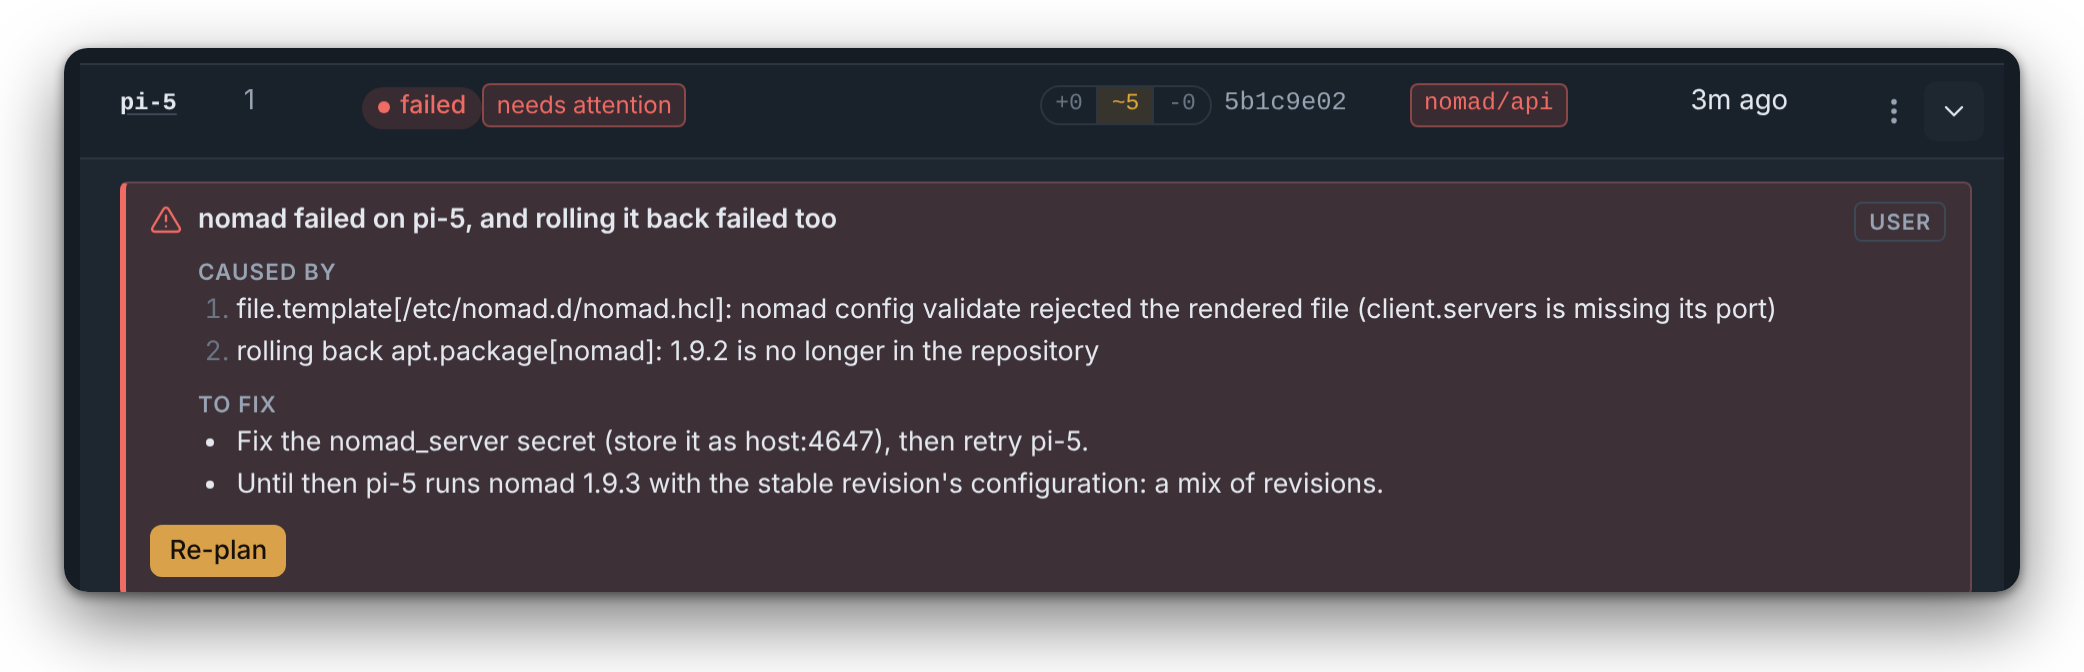
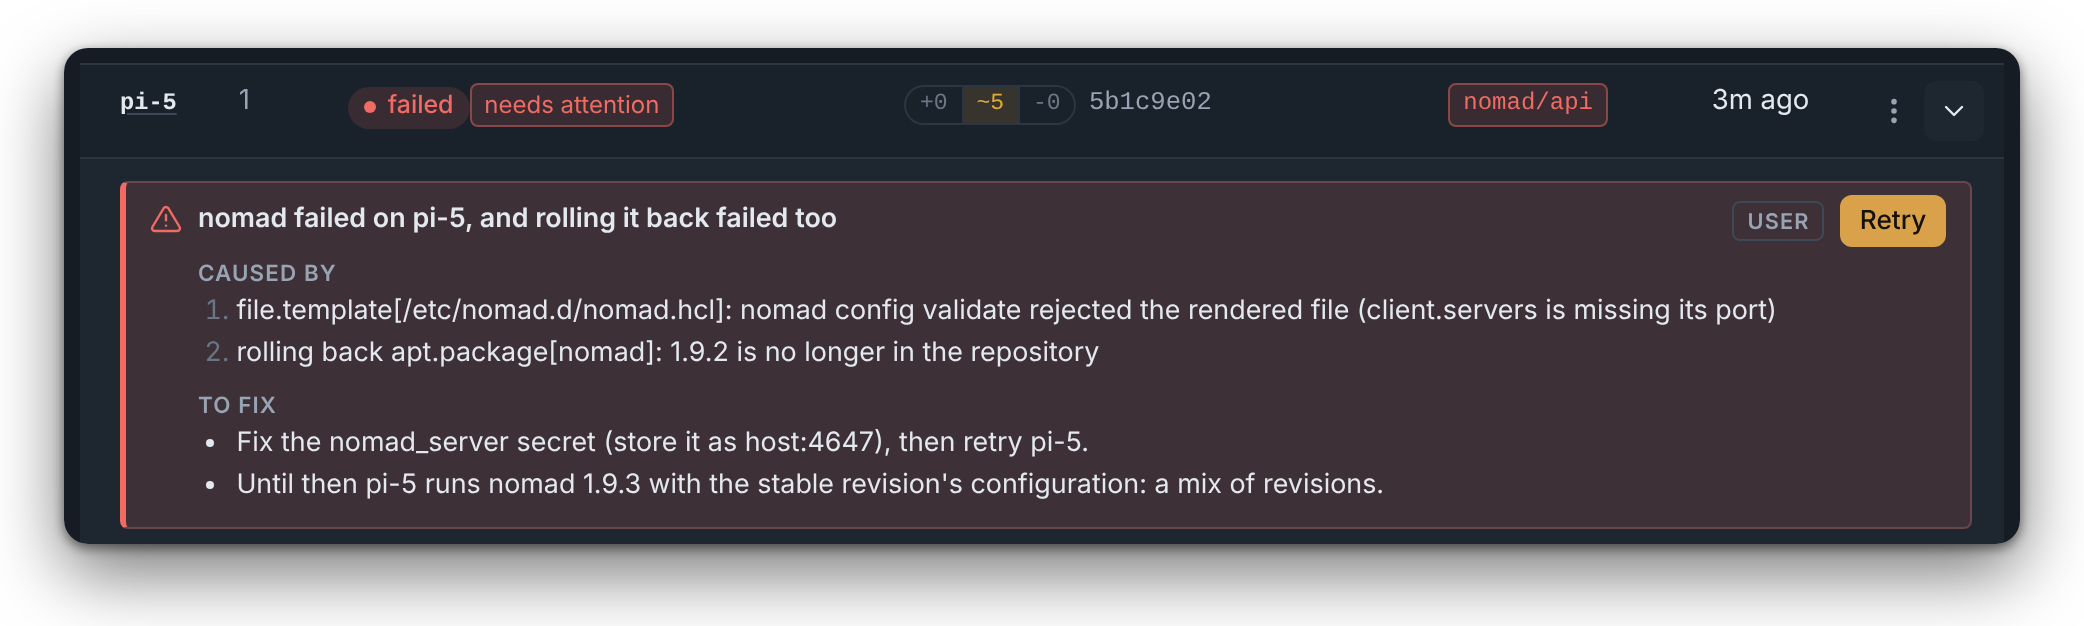
feat(ui): call re-planning a host that failed past its plan Retry, top right of its error
A host whose apply or bake failed is planned and applied again, so its
button (on the error, in its menu and in the dialog) says Retry; a host
whose planning failed, or that is still waiting to apply, keeps Re-plan.
The button sits top right of the error, as on other banners.

The hosts table no longer outgrows a 1280px page: a long activity path
wraps, the drift badge wraps under the plan, and a host's details never
set the table's width.

Claude-Session: https://claude.ai/code/session_01WkowUsjidXyef5JVRWfoZk

diff --git a/ui/styles/_runs.scss b/ui/styles/_runs.scss
@@ -92,6 +92,8 @@
   }
 
   &__raw {
+    flex: 1;
+    min-width: 0;
     margin: 0;
     color: var(--fg);
     font-size: 0.8rem;
@@ -109,12 +111,12 @@
     font-size: 0.76rem;
   }
 
-  // What can be done about it, at its foot.
+  // What can be done about it, top right beside the headline.
   &__actions {
     display: flex;
-    flex-wrap: wrap;
+    flex-shrink: 0;
     gap: 0.5rem;
-    margin-top: 0.6rem;
+    margin: -0.15rem 0;
   }
 }
 

diff --git a/ui/styles/_pages.scss b/ui/styles/_pages.scss
@@ -411,7 +411,12 @@
   }
 }
 
+// A host's details under its row. Its content never sets the table's width
+// (a long error or run step would scroll the whole table sideways): it
+// takes the row's width and wraps, or scrolls on its own.
 .host-row {
+  contain: inline-size;
+
   &__ticker {
     margin-top: 0.25rem;
   }

diff --git a/ui/styles/_tables.scss b/ui/styles/_tables.scss
@@ -70,6 +70,8 @@
   display: block;
   color: var(--fg-2);
   font-size: 0.78rem;
+  // A long path breaks rather than widening its column.
+  overflow-wrap: anywhere;
 }
 
 .cell-labels {

diff --git a/ui/src/pages/rollout.rs b/ui/src/pages/rollout.rs
@@ -26,7 +26,7 @@ use crate::components::{
     Refresh, RouteLink, RunReportView, SplitButton, TraceLink, use_toast,
 };
 use crate::hooks::{RunSource, use_debounced, use_fetch, use_live_value, use_now, use_run_report};
-use crate::logic::controls::{Decision, Standing, decisions};
+use crate::logic::controls::{Decision, Standing, decisions, replan_label};
 use crate::logic::fleet_plan::{Phases, fleet_tally};
 use crate::logic::format::{count, relative, rollout_label, short, since, timestamp};
 use crate::logic::live::{apply_fleet, apply_rollout};
@@ -863,9 +863,16 @@ fn dialog(
             }
         }
         Ask::Host(action, host) => {
+            let retry_label = d
+                .phases
+                .iter()
+                .flat_map(|p| &p.hosts)
+                .find(|h| &h.host == host)
+                .map(|h| replan_label(h.state, h.plan_digest.is_some()))
+                .unwrap_or("Re-plan");
             let (label, danger, body) = match *action {
                 "retry" => (
-                    "Re-plan",
+                    retry_label,
                     false,
                     "Plans the host again as it stands. A host that failed, was held or skipped is then re-applied with the same checks; one still waiting to apply keeps its place and its plan asks for approval again if it changed.",
                 ),
@@ -1157,11 +1164,13 @@ fn host_table(props: &HostTableProps) -> Html {
                                         <span class="cell-sub mono" data-testid="host-activity">{ now.clone() }</span>
                                     }
                                 </td>
-                                <td class="nowrap">
-                                    { host_tally(h, &props.plans).map(|tally| html! { <Changes {tally} /> }).unwrap_or_default() }
-                                    { h.plan_digest.as_deref().map(|d| html! {
-                                        <span class="mono muted small plan-digest" title={format!("plan {d}")}>{ short(d) }</span>
-                                    }).unwrap_or_else(|| html! { <span class="muted">{ "—" }</span> }) }
+                                <td>
+                                    <span class="nowrap">
+                                        { host_tally(h, &props.plans).map(|tally| html! { <Changes {tally} /> }).unwrap_or_default() }
+                                        { h.plan_digest.as_deref().map(|d| html! {
+                                            <span class="mono muted small plan-digest" title={format!("plan {d}")}>{ short(d) }</span>
+                                        }).unwrap_or_else(|| html! { <span class="muted">{ "—" }</span> }) }
+                                    </span>
                                     if h.preview {
                                         <span class="badge" data-testid="plan-preview"
                                             title="Planned at the rollout's start; planned again when its stage opens">{ "preview" }</span>
@@ -1216,7 +1225,8 @@ fn host_menu(h: &RolloutHost, on_ask: &Callback<Ask>) -> Vec<MenuItem> {
     let host = || h.host.clone();
     let mut items = Vec::new();
     if can_replan(h.state) {
-        items.push(item("Re-plan…", false, Ask::Host("retry", host())));
+        let label = format!("{}…", replan_label(h.state, h.plan_digest.is_some()));
+        items.push(item(&label, false, Ask::Host("retry", host())));
     }
     if h.state == HostRolloutState::Failed && !h.failed_checks.is_empty() {
         items.push(item(
@@ -1280,19 +1290,20 @@ fn host_detail_row(props: &HostDetailRowProps) -> Html {
         }),
         None,
     );
-    // A host with an error is re-planned from it: this one, or (when it
-    // failed) every failed host of the rollout at once.
+    // A host with an error is retried (or re-planned) from it: this one, or
+    // (when it failed) every failed host of the rollout at once.
     let replan = (props.admin && can_replan(h.state)).then(|| {
         let others = failed(&props.detail).len();
+        let label = replan_label(h.state, h.plan_digest.is_some());
         let run = |a: Ask| {
             let on_run = props.on_run.clone();
             Callback::from(move |_: MouseEvent| on_run.emit(a.clone()))
         };
         html! {
             <div class="error-block__actions" data-testid="host-replan">
-                <Button small=true kind={Kind::Primary} onclick={run(Ask::Host("retry", h.host.clone()))}>{ "Re-plan" }</Button>
+                <Button small=true kind={Kind::Primary} onclick={run(Ask::Host("retry", h.host.clone()))}>{ label }</Button>
                 if others > 1 && h.state == HostRolloutState::Failed {
-                    <Button small=true onclick={run(Ask::Action("retry"))}>{ format!("Re-plan all {others} failed") }</Button>
+                    <Button small=true onclick={run(Ask::Action("retry"))}>{ format!("Retry all {others} failed") }</Button>
                 }
             </div>
         }
@@ -1308,9 +1319,8 @@ fn host_detail_row(props: &HostDetailRowProps) -> Html {
     });
     html! {
         <div class="host-row">
-            <ErrorBlock error={h.error_detail.clone()} raw={h.error.clone().map(AttrValue::from)} tone={host_error_tone(h)}>
-                { replan.unwrap_or_default() }
-            </ErrorBlock>
+            <ErrorBlock error={h.error_detail.clone()} raw={h.error.clone().map(AttrValue::from)} tone={host_error_tone(h)}
+                actions={replan.unwrap_or_default()} />
             <div class="host-row__ticker">
                 <h4 class="subhead">{ "Through this rollout" }</h4>
                 { match &lifecycle {

diff --git a/ui/src/logic/controls.rs b/ui/src/logic/controls.rs
@@ -2,7 +2,7 @@
 //! the decision the rollout is waiting on (approve, else pause, retry or
 //! resume) on its face, and the rest behind its menu.
 
-use buckle_api::{RevisionStatus, RevisionSummary, RolloutState, RolloutSummary};
+use buckle_api::{HostRolloutState, RevisionStatus, RevisionSummary, RolloutState, RolloutSummary};
 use chrono::{DateTime, Utc};
 
 use super::tone::{rollout_active, rollout_finished};
@@ -146,6 +146,22 @@ pub fn decisions(state: RolloutState, approve: Option<&str>, hosts: Standing) ->
     all.push(Decision::Abort);
     let primary = all.remove(0);
     Some(Decisions { primary, menu: all })
+}
+
+/// What re-planning a host amounts to, as its button says it: a host that
+/// failed past its plan (its apply or bake failed, it was held, skipped or
+/// missed with a plan in hand) is planned and applied again, a "Retry"; one
+/// whose planning failed, or that is still waiting to apply, only plans again.
+pub fn replan_label(state: HostRolloutState, has_plan: bool) -> &'static str {
+    let waiting = matches!(
+        state,
+        HostRolloutState::PlanPending | HostRolloutState::Planned
+    );
+    if has_plan && !waiting {
+        "Retry"
+    } else {
+        "Re-plan"
+    }
 }
 
 #[cfg(test)]
@@ -311,5 +327,20 @@ mod tests {
         }
         let d = decisions(RolloutState::Baking, None, Standing::default()).unwrap();
         assert!(!d.menu.contains(&SkipBake));
+    }
+
+    #[test]
+    fn a_host_that_failed_past_its_plan_is_retried_else_replanned() {
+        use HostRolloutState as S;
+        for (state, has_plan, want) in [
+            (S::Failed, true, "Retry"),
+            (S::Held, true, "Retry"),
+            (S::Pending, true, "Retry"),
+            (S::Failed, false, "Re-plan"),
+            (S::Planned, true, "Re-plan"),
+            (S::PlanPending, false, "Re-plan"),
+        ] {
+            assert_eq!(replan_label(state, has_plan), want, "{state:?} {has_plan}");
+        }
     }
 }

diff --git a/ui/src/components/error_block.rs b/ui/src/components/error_block.rs
@@ -28,9 +28,10 @@ pub struct ErrorBlockProps {
     /// Tighter, for a table cell.
     #[prop_or_default]
     pub compact: bool,
-    /// What can be done about it (buttons), at the foot of the block.
+    /// What can be done about it (buttons), top right of the block as on
+    /// every other banner.
     #[prop_or_default]
-    pub children: Html,
+    pub actions: Html,
 }
 
 #[function_component(ErrorBlock)]
@@ -52,6 +53,7 @@ pub fn error_block(props: &ErrorBlockProps) -> Html {
                     <span class="error-block__icon">{ icons::alert() }</span>
                     <p class="error-block__message">{ secret_text(&e.message) }</p>
                     <span class="error-block__kind" title={error_kind_title(e.kind)}>{ error_kind_label(e.kind) }</span>
+                    { props.actions.clone() }
                 </div>
                 if !e.causes.is_empty() {
                     <div class="error-block__section">
@@ -69,14 +71,15 @@ pub fn error_block(props: &ErrorBlockProps) -> Html {
                         </ul>
                     </div>
                 }
-                { props.children.clone() }
             </div>
         },
         (None, Some(raw)) if !raw.trim().is_empty() => html! {
             <div class={classes!(base, "error-block--raw")} data-testid="error-block">
                 { context.unwrap_or_default() }
-                <pre class="error-block__raw">{ secret_text(raw) }</pre>
-                { props.children.clone() }
+                <div class="error-block__head">
+                    <pre class="error-block__raw">{ secret_text(raw) }</pre>
+                    { props.actions.clone() }
+                </div>
             </div>
         },
         _ => html! {},

diff --git a/docs/operations/recovery.md b/docs/operations/recovery.md
@@ -5,7 +5,7 @@ decision below takes a note, which is kept in the audit log.
 
 | Situation | Act on | Options |
 |---|---|---|
-| One host failed to plan, apply or pass its health checks | The host | Re-plan, continue with checks waived, force apply, skip |
+| One host failed to plan, apply or pass its health checks | The host | Retry or re-plan, continue with checks waived, force apply, skip |
 | A phase ran out of failure budget and paused | The rollout | Fix the cause and retry; or skip the phase, roll back, or abort |
 | The revision is wrong | The rollout | Roll back, abort, or push a fix |
 | A revision that already finished is wrong | The fleet | Push a revert, or roll the fleet back from Rollouts |
@@ -14,17 +14,18 @@ decision below takes a note, which is kept in the audit log.
 ## A failed host
 
 A failed host is red in the pipeline. Expand its row under **Hosts** for what failed, why, and what
-to do about it, followed by its timeline and run report. **Re-plan** on the error retries the host at
-once; **Re-plan all** retries every failed host of the rollout. A host whose own rollback also
+to do about it, followed by its timeline and run report. The button at the top right of the error acts at
+once: **Retry** when the host failed past its plan (it plans and applies again), **Re-plan** when its
+planning failed; **Retry all** retries every failed host of the rollout. A host whose own rollback also
 failed is marked **needs attention**: it is on a mix of revisions until someone acts.
 
-<Screenshot name="rollout-failed-host" alt="A failed host's row: the error chain, what to fix, and the Re-plan buttons on it" />
+<Screenshot name="rollout-failed-host" alt="A failed host's row: the error chain, what to fix, and the Retry button at its top right" />
 
 Every host decision is also in the **⋮** menu on the host's row.
 
 | Action | What it does | Use it when |
 |---|---|---|
-| **Re-plan** | Plans the host again as it stands; a failed, held or skipped host is then re-applied with the same checks. Offered on any host whose plan is not applied yet. | You fixed the cause: a secret, a repository, an identity, the host itself. |
+| **Retry** / **Re-plan** | Plans the host again as it stands; a host that failed past its plan (Retry) is then re-applied with the same checks. Re-plan is offered on any host whose plan is not applied yet. | You fixed the cause: a secret, a repository, an identity, the host itself. |
 | **Continue with checks waived…** | Retries with the named failing checks waived for this host in this rollout. They still run and report. | A check is wrong or flaky, not the change. |
 | **Skip bake period…** | Counts a baking host as baked now. Refused while one of its checks is failing. | The change is verified and the bake window only delays the rollout. |
 | **Force apply…** | Applies whatever the host plans now, without approval, digest check or a passing baseline. | A plan keeps changing between attempts, or a host held at baseline must go ahead. |
